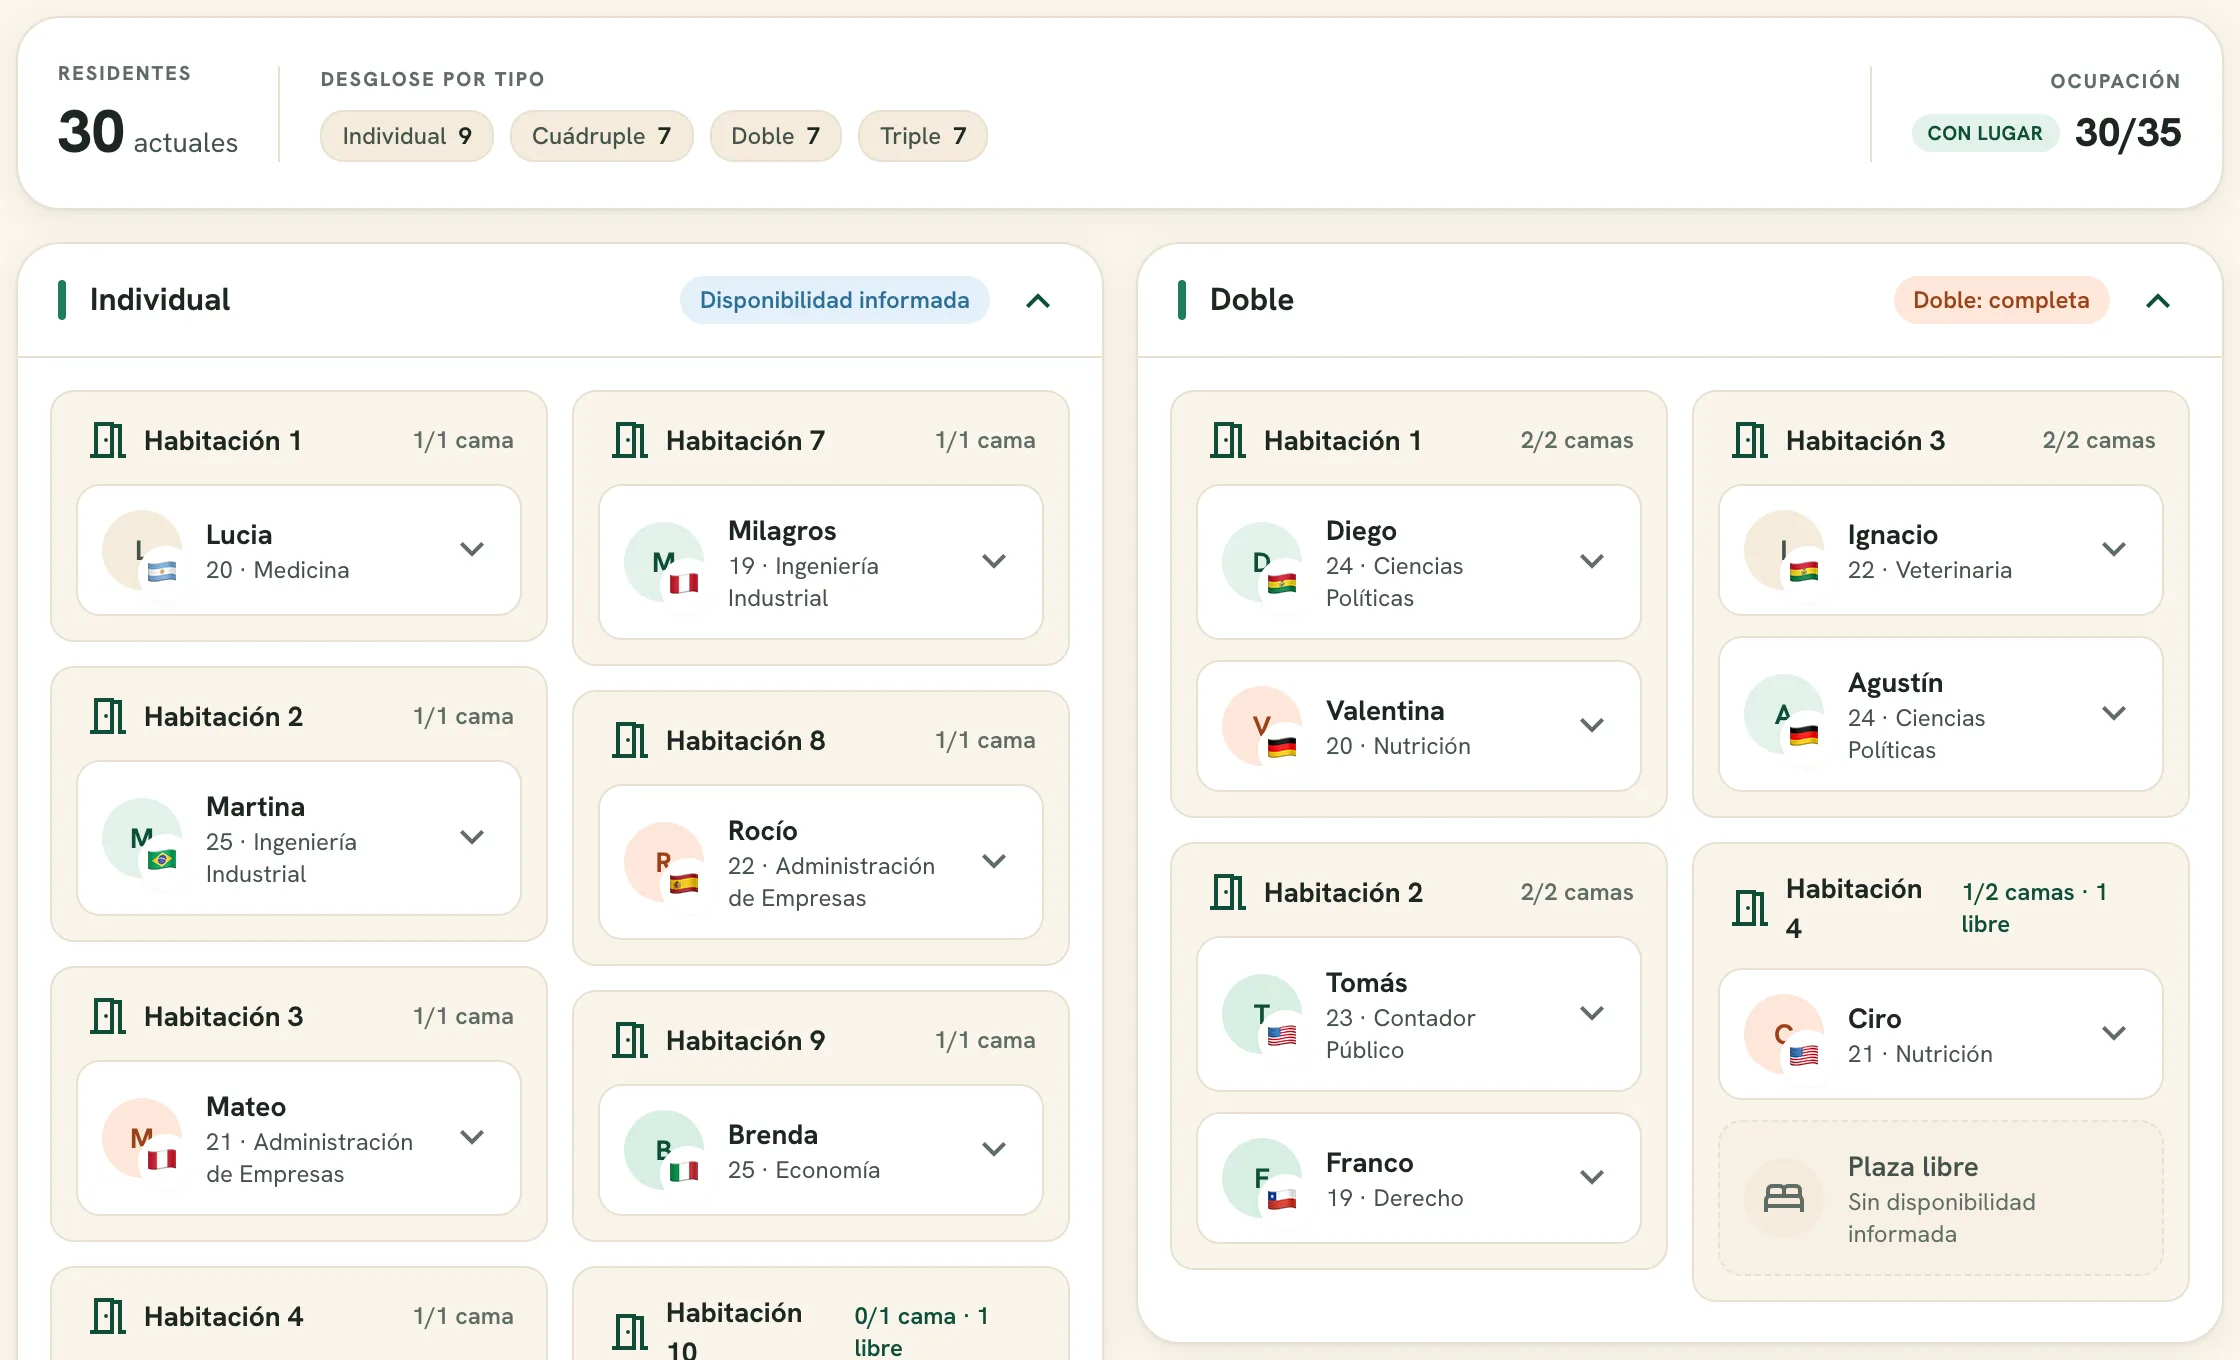
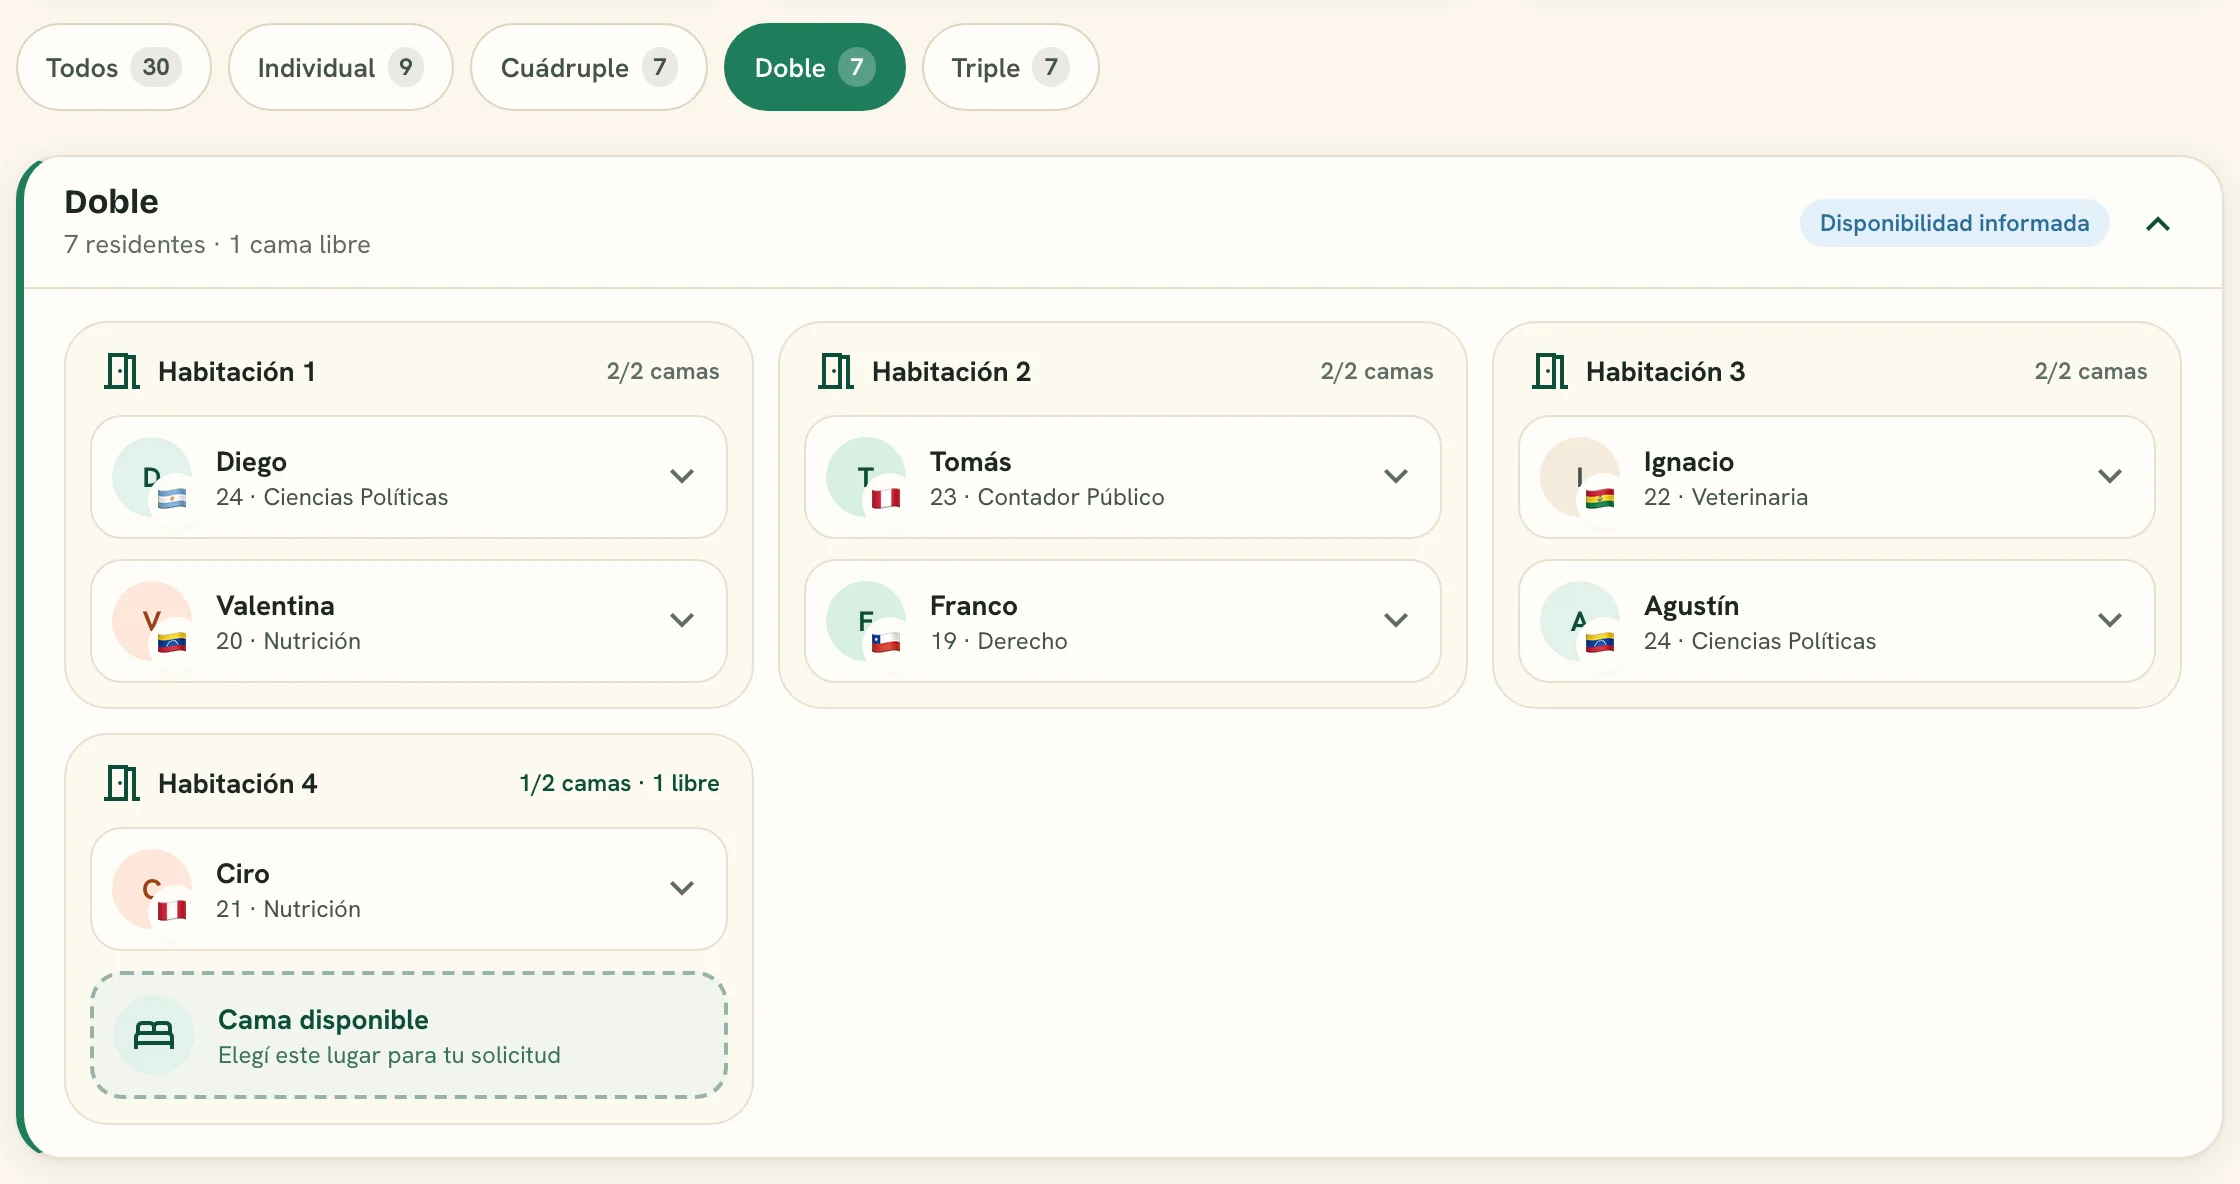
Web: capturas de la comunidad rehechas con banderas latinoamericanas

diff --git a/components/marketing/CommunityPreview.tsx b/components/marketing/CommunityPreview.tsx
@@ -77,9 +77,9 @@ export function CommunityPreview({ variant }: { variant: "students" | "residence
               </span>
               <Image
                 src="/landing/comunidad-desktop.webp"
-                alt="Sección Comunidad de una residencia en EstuRed: residentes, ocupación y habitaciones individuales y dobles con quién vive en cada cama y las plazas libres."
+                alt="Sección Comunidad de una residencia en EstuRed: filtros por tipo y habitaciones dobles con quién vive en cada cama y una cama disponible."
                 width={2240}
-                height={1360}
+                height={1184}
                 sizes="(min-width: 1024px) 620px, 100vw"
                 loading="lazy"
                 className="hidden h-auto w-full md:block"
